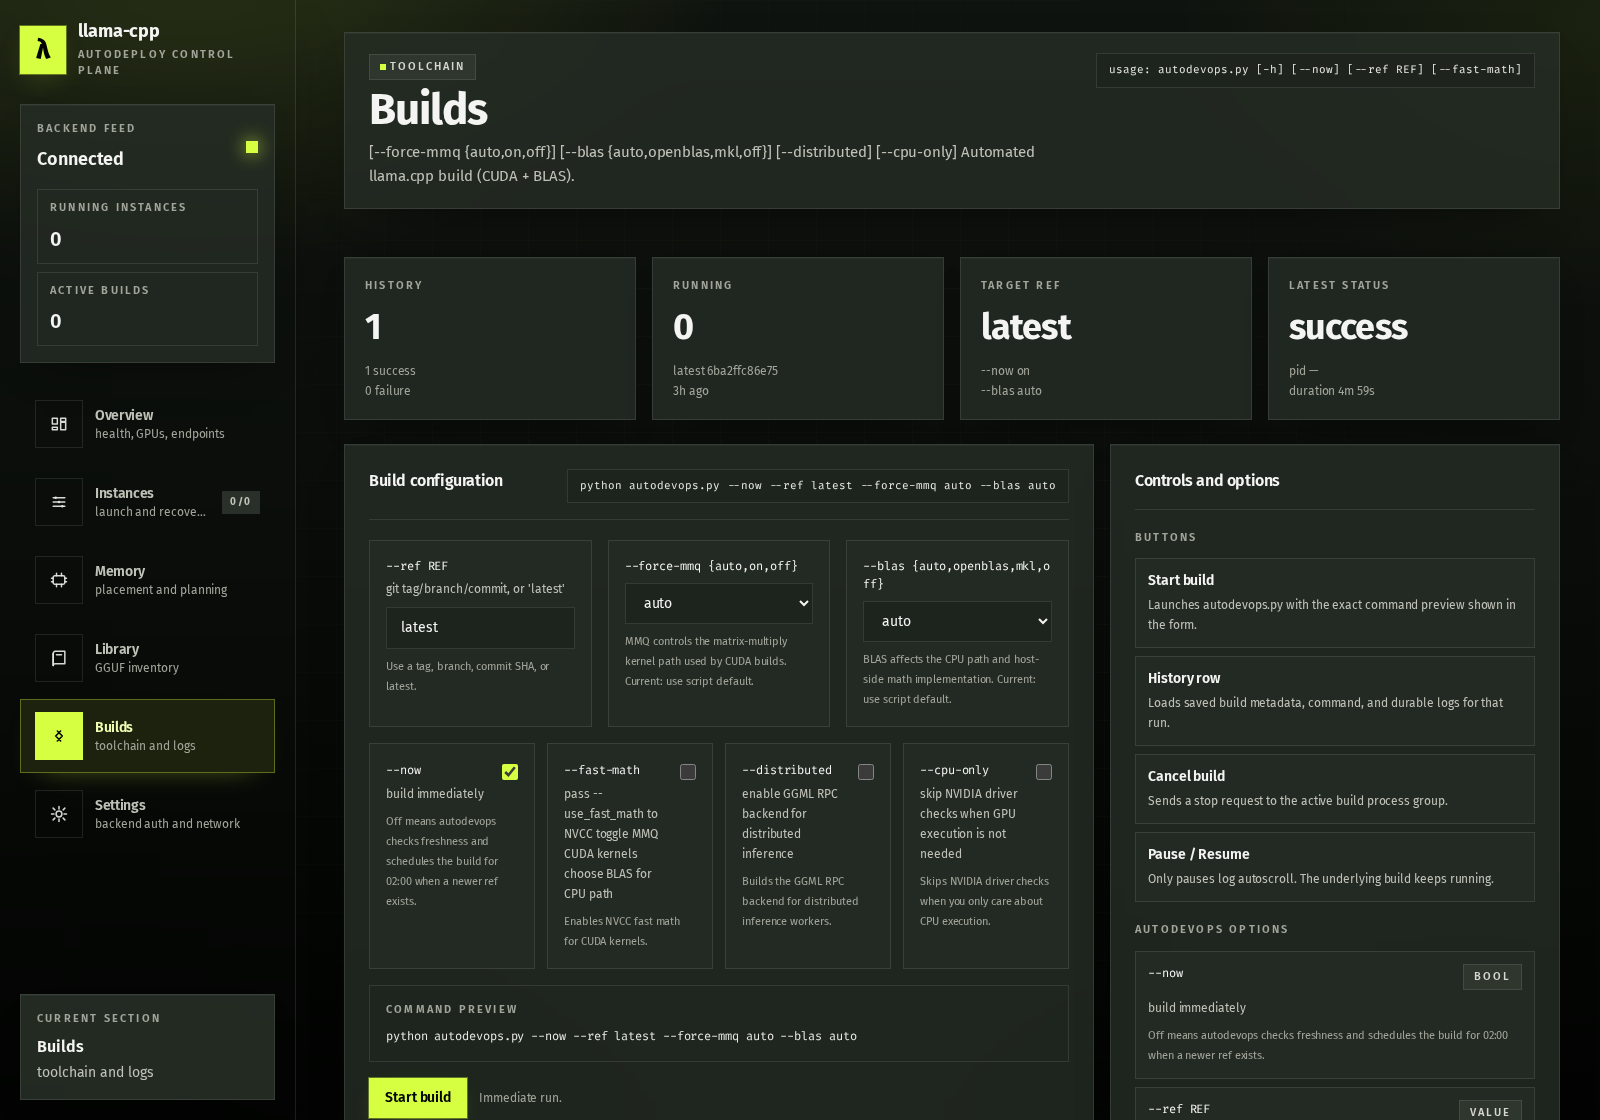
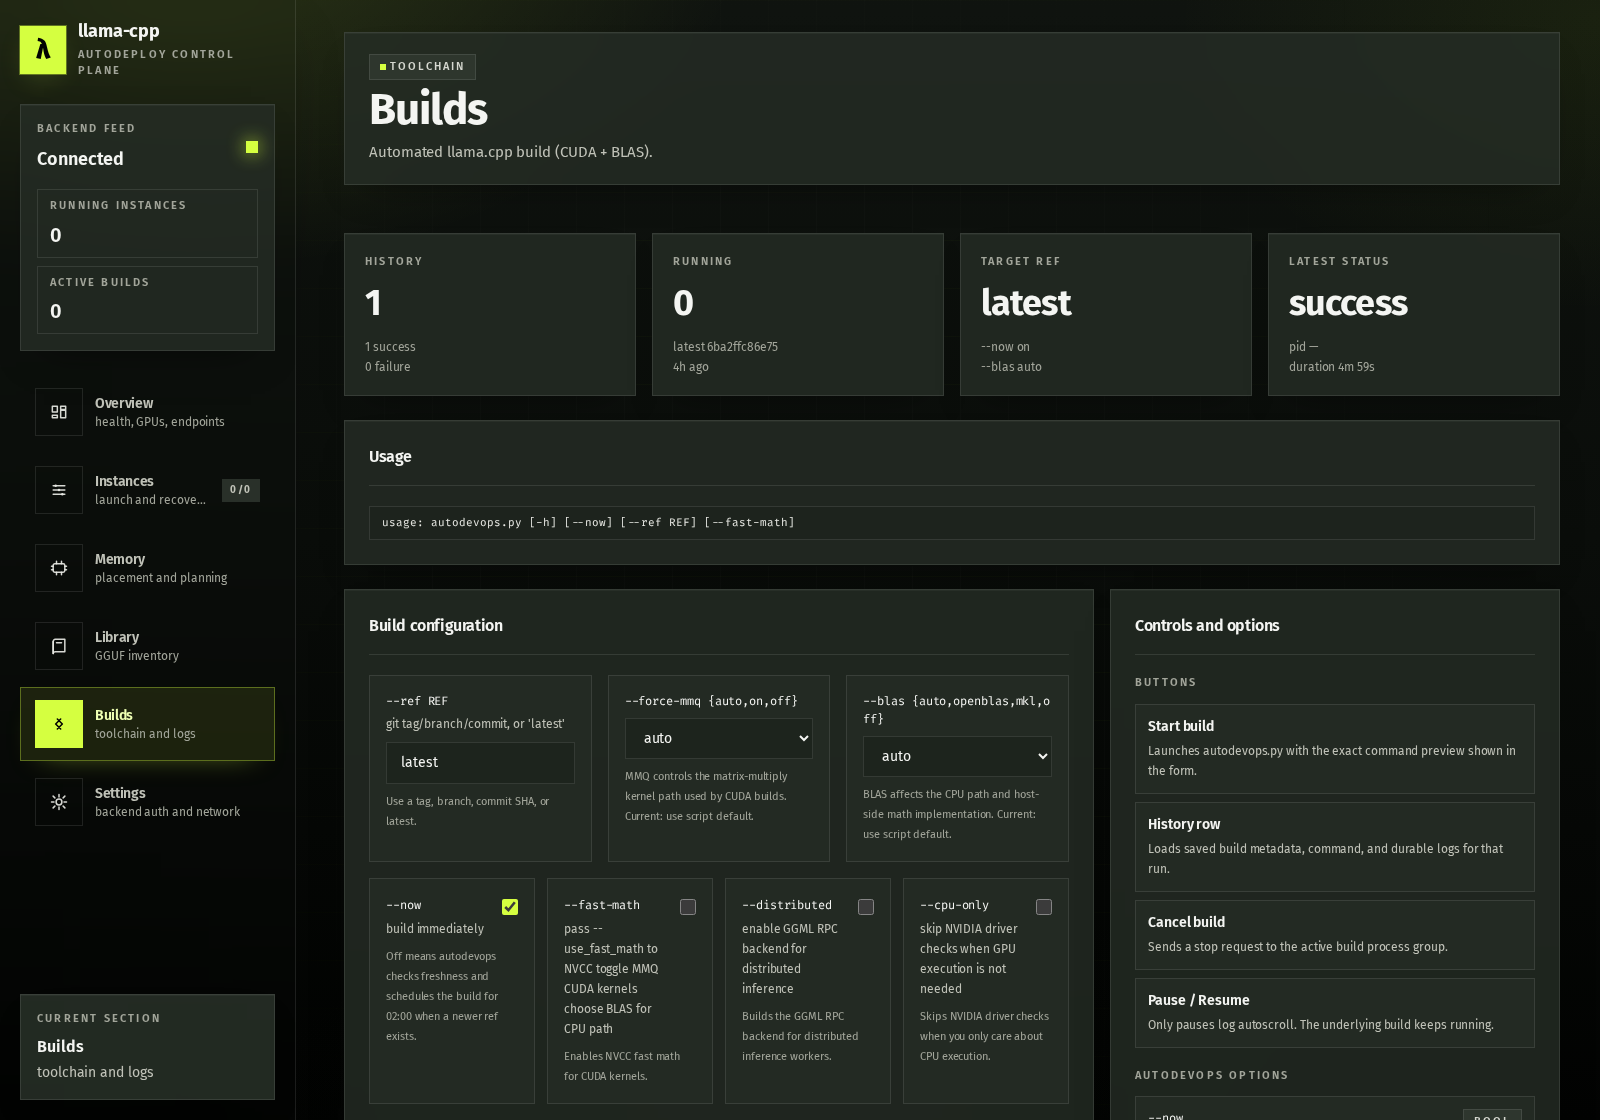
Improve mobile web UI and refresh screenshots

diff --git a/web/frontend/src/pages/Builds.tsx b/web/frontend/src/pages/Builds.tsx
@@ -202,6 +202,21 @@ function findOptionSpec(flags: SupportedFlags | undefined, flag: string) {
   return options.find((option) => option.flag === flag);
 }
 
+function buildHeaderSummary(flags: SupportedFlags | undefined): string {
+  const summary = flags?.summary?.replace(/\s+/g, " ").trim();
+  if (!summary) return FALLBACK_SUMMARY;
+  if (!/^usage:/i.test(summary) && !/^(\[--|\{--|--)/.test(summary)) return summary;
+
+  const automatedIndex = summary.indexOf("Automated");
+  if (automatedIndex >= 0) {
+    return summary.slice(automatedIndex).trim();
+  }
+
+  const sentenceMatch = summary.match(/([A-Z][^.]*\.)/);
+  if (sentenceMatch) return sentenceMatch[1];
+  return FALLBACK_SUMMARY;
+}
+
 export default function Builds() {
   const qc = useQueryClient();
   const [form, setForm] = useState<BuildFormState>(DEFAULT_FORM);
@@ -346,17 +361,10 @@ export default function Builds() {
       <PageHeader
         eyebrow="Toolchain"
         title="Builds"
-        description={flags.data?.summary || FALLBACK_SUMMARY}
-        actions={
-          (flags.data?.usage || FALLBACK_USAGE) ? (
-            <div className="brand-code-block text-left sm:max-w-[40rem]">
-              {flags.data?.usage || FALLBACK_USAGE}
-            </div>
-          ) : undefined
-        }
+        description={buildHeaderSummary(flags.data)}
       />
 
-      <div className="grid gap-4 md:grid-cols-2 xl:grid-cols-4">
+      <div className="grid gap-4 grid-cols-2 xl:grid-cols-4">
         <BuildStat
           label="History"
           value={`${buildList.length}`}
@@ -393,15 +401,14 @@ export default function Builds() {
         />
       </div>
 
+      <Panel title="Usage">
+        <div className="brand-code-block brand-scroll-pane max-h-[8rem] text-left">
+          {flags.data?.usage || FALLBACK_USAGE}
+        </div>
+      </Panel>
+
       <div className="grid gap-4 xl:grid-cols-[1.25fr_0.75fr]">
-        <Panel
-          title="Build configuration"
-          actions={
-            <div className="brand-code-block text-left sm:max-w-[36rem]">
-              {buildCommandPreview(form)}
-            </div>
-          }
-        >
+        <Panel title="Build configuration">
           {flags.isLoading && (
             <div className="text-sm text-bone-400">Probing autodevops.py --help…</div>
           )}
@@ -503,7 +510,7 @@ export default function Builds() {
 
             <div className="border border-white/10 bg-ink-400/72 p-4">
               <div className="brand-label">Command preview</div>
-              <div className="mt-2 font-mono text-[12px] text-bone-100 break-all">
+              <div className="brand-code-block brand-scroll-pane mt-2 max-h-[8rem]">
                 {buildCommandPreview(form)}
               </div>
             </div>

diff --git a/web/frontend/src/App.tsx b/web/frontend/src/App.tsx
@@ -110,9 +110,9 @@ function ShellStat({
         ? "text-amber-200"
         : "text-bone-50";
   return (
-    <div className="rounded-none border border-white/10 bg-ink-300/72 px-3 py-2.5">
+    <div className="rounded-none border border-white/10 bg-ink-300/72 px-3 py-2">
       <div className="brand-label">{label}</div>
-      <div className={`mt-2 text-xl font-semibold tracking-tight ${toneClass}`}>
+      <div className={`mt-1.5 text-lg font-semibold tracking-tight sm:text-xl ${toneClass}`}>
         {value}
       </div>
     </div>
@@ -255,7 +255,7 @@ export default function App() {
                 }`}
               />
             </div>
-            <div className="mt-4 grid gap-2 sm:grid-cols-2 lg:grid-cols-1">
+            <div className="mt-4 grid gap-2 grid-cols-2 lg:grid-cols-1">
               <ShellStat
                 label="Running instances"
                 value={`${feeds.instances.running}`}
@@ -329,13 +329,13 @@ export default function App() {
         </aside>
 
         <div className="min-w-0">
-          <header className="sticky top-0 z-30 border-b border-white/10 bg-ink-600/88 px-4 py-3 backdrop-blur lg:hidden">
+          <header className="sticky top-0 z-30 border-b border-white/10 bg-ink-600/88 px-3 py-3 backdrop-blur lg:hidden">
             <div className="flex items-center justify-between gap-3">
               <div className="flex min-w-0 items-center gap-3">
                 <button
                   type="button"
                   onClick={() => setNavOpen(true)}
-                  className="brand-btn-ghost px-3 py-2"
+                  className="brand-btn-ghost shrink-0 px-3 py-2"
                 >
                   Menu
                 </button>
@@ -347,7 +347,7 @@ export default function App() {
                 </div>
               </div>
 
-              <div className="flex items-center gap-2 rounded-none border border-white/10 bg-ink-300/80 px-3 py-1.5 text-xs font-semibold">
+              <div className="hidden items-center gap-2 rounded-none border border-white/10 bg-ink-300/80 px-3 py-1.5 text-xs font-semibold sm:flex">
                 <span
                   className={`h-2 w-2 rounded-none ${
                     feeds.connected ? "bg-lime-300" : "bg-rose-400"
@@ -360,7 +360,7 @@ export default function App() {
 
           <main
             id="main-content"
-            className="relative px-4 py-4 sm:px-6 sm:py-6 lg:px-10 lg:py-8"
+            className="relative px-3 py-3 sm:px-6 sm:py-6 lg:px-10 lg:py-8"
           >
             <div className="mx-auto w-full max-w-7xl">
               <Routes>

diff --git a/web/frontend/src/components/PageHeader.tsx b/web/frontend/src/components/PageHeader.tsx
@@ -9,7 +9,7 @@ interface Props {
 
 export function PageHeader({ eyebrow, title, description, actions }: Props) {
   return (
-    <header className="brand-surface mb-6 flex flex-col gap-5 px-5 py-5 sm:flex-row sm:items-start sm:justify-between sm:px-6">
+    <header className="brand-surface mb-6 flex flex-col gap-4 px-4 py-4 sm:gap-5 sm:px-6 sm:py-5 sm:flex-row sm:items-start sm:justify-between">
       <div className="min-w-0 sm:flex-1">
         {eyebrow && (
           <div className="brand-chip mb-3">
@@ -17,17 +17,17 @@ export function PageHeader({ eyebrow, title, description, actions }: Props) {
             {eyebrow}
           </div>
         )}
-        <h1 className="font-display text-3xl font-bold tracking-tight text-bone-50 md:text-[2.75rem]">
+        <h1 className="font-display text-[1.85rem] font-bold tracking-tight text-bone-50 sm:text-3xl md:text-[2.75rem]">
           {title}
         </h1>
         {description && (
-          <p className="mt-3 max-w-3xl text-sm leading-6 text-bone-300 md:text-[15px]">
+          <p className="mt-2 max-w-3xl text-sm leading-6 text-bone-300 md:mt-3 md:text-[15px]">
             {description}
           </p>
         )}
       </div>
       {actions && (
-        <div className="flex min-w-0 w-full flex-wrap items-start gap-2 sm:w-auto sm:max-w-[40rem] sm:justify-end">
+        <div className="flex min-w-0 w-full flex-wrap items-stretch gap-2 sm:w-auto sm:max-w-[40rem] sm:items-start sm:justify-end">
           {actions}
         </div>
       )}

diff --git a/web/frontend/src/components/Panel.tsx b/web/frontend/src/components/Panel.tsx
@@ -18,9 +18,9 @@ export function Panel({
   padded = true,
 }: Props) {
   return (
-    <section className={`brand-surface ${padded ? "p-5 sm:p-6" : ""} ${className}`}>
+    <section className={`brand-surface ${padded ? "p-4 sm:p-6" : ""} ${className}`}>
       {(title || subtitle || actions) && (
-        <header className="mb-5 flex flex-col gap-3 border-b border-white/10 pb-4 sm:flex-row sm:items-start sm:justify-between">
+        <header className="mb-4 flex flex-col gap-3 border-b border-white/10 pb-4 sm:mb-5 sm:flex-row sm:items-start sm:justify-between">
           <div className="flex min-w-0 flex-col gap-1">
             {title && (
               <h2 className="text-base font-semibold tracking-tight text-bone-50">
@@ -29,7 +29,7 @@ export function Panel({
             )}
             {subtitle && <p className="text-sm leading-6 text-bone-300">{subtitle}</p>}
           </div>
-          {actions && <div className="flex min-w-0 w-full flex-wrap items-start gap-2 sm:w-auto sm:max-w-[36rem] sm:justify-end">{actions}</div>}
+          {actions && <div className="flex min-w-0 w-full flex-wrap items-stretch gap-2 sm:w-auto sm:max-w-[36rem] sm:items-start sm:justify-end">{actions}</div>}
         </header>
       )}
       {children}

diff --git a/web/frontend/src/index.css b/web/frontend/src/index.css
@@ -112,7 +112,7 @@ h4 {
     @apply w-full rounded-none border border-white/10 bg-ink-400/80 px-3.5 py-2.5 text-sm text-bone-50 placeholder:text-bone-500 focus:border-lime-300 focus:outline-none focus:ring-2 focus:ring-lime-300/30;
   }
   .brand-btn {
-    @apply inline-flex items-center justify-center gap-2 rounded-none px-4 py-2.5 text-sm font-semibold active:scale-[0.98] disabled:cursor-not-allowed disabled:opacity-50;
+    @apply inline-flex items-center justify-center gap-2 rounded-none px-3 py-2 text-sm font-semibold active:scale-[0.98] disabled:cursor-not-allowed disabled:opacity-50 sm:px-4 sm:py-2.5;
   }
   .brand-btn-primary {
     @apply brand-btn bg-lime-300 text-ink-900 hover:bg-lime-200 shadow-glow-lime;
@@ -127,7 +127,7 @@ h4 {
     @apply brand-btn border border-amber-400/40 bg-amber-400/10 text-amber-200 hover:bg-amber-400/20;
   }
   .brand-stat {
-    @apply brand-surface flex min-h-[8.75rem] flex-col justify-between p-5;
+    @apply brand-surface flex min-h-[6.6rem] flex-col justify-between p-3.5 sm:min-h-[8.75rem] sm:p-5;
   }
   .brand-table-wrap {
     @apply overflow-x-auto rounded-none border border-white/10 bg-ink-500/60;

diff --git a/web/frontend/src/pages/Instances.tsx b/web/frontend/src/pages/Instances.tsx
@@ -423,7 +423,7 @@ export default function Instances() {
         </div>
       )}
 
-      <div className="grid gap-4 md:grid-cols-2 xl:grid-cols-4">
+      <div className="grid gap-4 grid-cols-2 xl:grid-cols-4">
         <SummaryCard label="Managed" value={`${instances.length}`} hint="Persisted control-plane records" />
         <SummaryCard
           label="Running"

diff --git a/web/frontend/src/pages/Dashboard.tsx b/web/frontend/src/pages/Dashboard.tsx
@@ -239,7 +239,7 @@ export default function Dashboard() {
         }
       />
 
-      <div className="grid gap-4 md:grid-cols-2 xl:grid-cols-6">
+      <div className="grid gap-4 grid-cols-2 xl:grid-cols-6">
         <MetricCard
           label="Backend"
           value={health.data?.status === "ok" ? "ok" : health.isError ? "down" : "check"}

diff --git a/web/frontend/src/pages/Library.tsx b/web/frontend/src/pages/Library.tsx
@@ -89,7 +89,7 @@ export default function Library() {
             onChange={(e) => setToken(e.target.value)}
             placeholder="hf_token (optional)"
             type="password"
-            className="brand-input w-60"
+            className="brand-input w-full md:w-60"
           />
           <button
             type="submit"

diff --git a/tests/test_web_backend.py b/tests/test_web_backend.py
@@ -426,6 +426,29 @@ class BuildFlagTests(unittest.IsolatedAsyncioTestCase):
         self.assertEqual(option_map["--ref"]["kind"], "value")
         self.assertIn("git tag/branch/commit", option_map["--ref"]["description"])
 
+    async def test_probe_skips_wrapped_usage_when_building_summary(self):
+        help_text = """usage: autodevops.py [-h] [--now] [--ref REF]
+                     [--force-mmq {auto,on,off}]
+
+Automated llama.cpp build (CUDA + BLAS).
+
+options:
+  -h, --help            show this help message and exit
+"""
+
+        async def fake_exec(*args, **kwargs):
+            class FakeProc:
+                async def communicate(self):
+                    return help_text.encode("utf-8"), b""
+
+            return FakeProc()
+
+        with mock.patch("asyncio.create_subprocess_exec", side_effect=fake_exec):
+            spec = await builds_route._probe_supported_flags()
+
+        self.assertEqual(spec["usage"], "usage: autodevops.py [-h] [--now] [--ref REF]")
+        self.assertEqual(spec["summary"], "Automated llama.cpp build (CUDA + BLAS).")
+
     async def test_validate_rejects_unknown_choice(self):
         req = builds_route.BuildRequest(blas="bogus")
         from fastapi import HTTPException

diff --git a/web/backend/routes/builds.py b/web/backend/routes/builds.py
@@ -75,13 +75,23 @@ async def _probe_supported_flags() -> Dict[str, Any]:
     lines = help_text.splitlines()
     usage = next((line.strip() for line in lines if line.strip().startswith("usage:")), "")
     preface: List[str] = []
-    for line in lines[1:]:
-        stripped = line.strip()
-        if not stripped:
-            continue
-        if stripped == "options:":
-            break
-        preface.append(stripped)
+    usage_index = next(
+        (idx for idx, line in enumerate(lines) if line.strip().startswith("usage:")),
+        None,
+    )
+    if usage_index is not None:
+        idx = usage_index + 1
+        # argparse may wrap long usage lines; skip that whole paragraph first.
+        while idx < len(lines) and lines[idx].strip():
+            idx += 1
+        while idx < len(lines) and not lines[idx].strip():
+            idx += 1
+        while idx < len(lines):
+            stripped = lines[idx].strip()
+            if not stripped or stripped == "options:":
+                break
+            preface.append(stripped)
+            idx += 1
     if preface:
         summary = " ".join(preface)
 

diff --git a/README.md b/README.md
@@ -253,6 +253,24 @@ build history, and streamed build logs.
   <img src="docs/screenshots/web-builds.png" alt="Builds page" width="100%" />
 </p>
 
+#### Mobile Dashboard
+
+Same overview on a narrow viewport, with the shell, stats, and disclosures
+compressed for phone-sized screens.
+
+<p align="center">
+  <img src="docs/screenshots/web-dashboard-mobile.png" alt="Dashboard on mobile" width="42%" />
+</p>
+
+#### Mobile Builds
+
+Build history and command controls rendered for a narrow viewport without the
+header and usage blocks taking over the screen.
+
+<p align="center">
+  <img src="docs/screenshots/web-builds-mobile.png" alt="Builds on mobile" width="42%" />
+</p>
+
 Refresh the screenshots:
 
 ```bash
